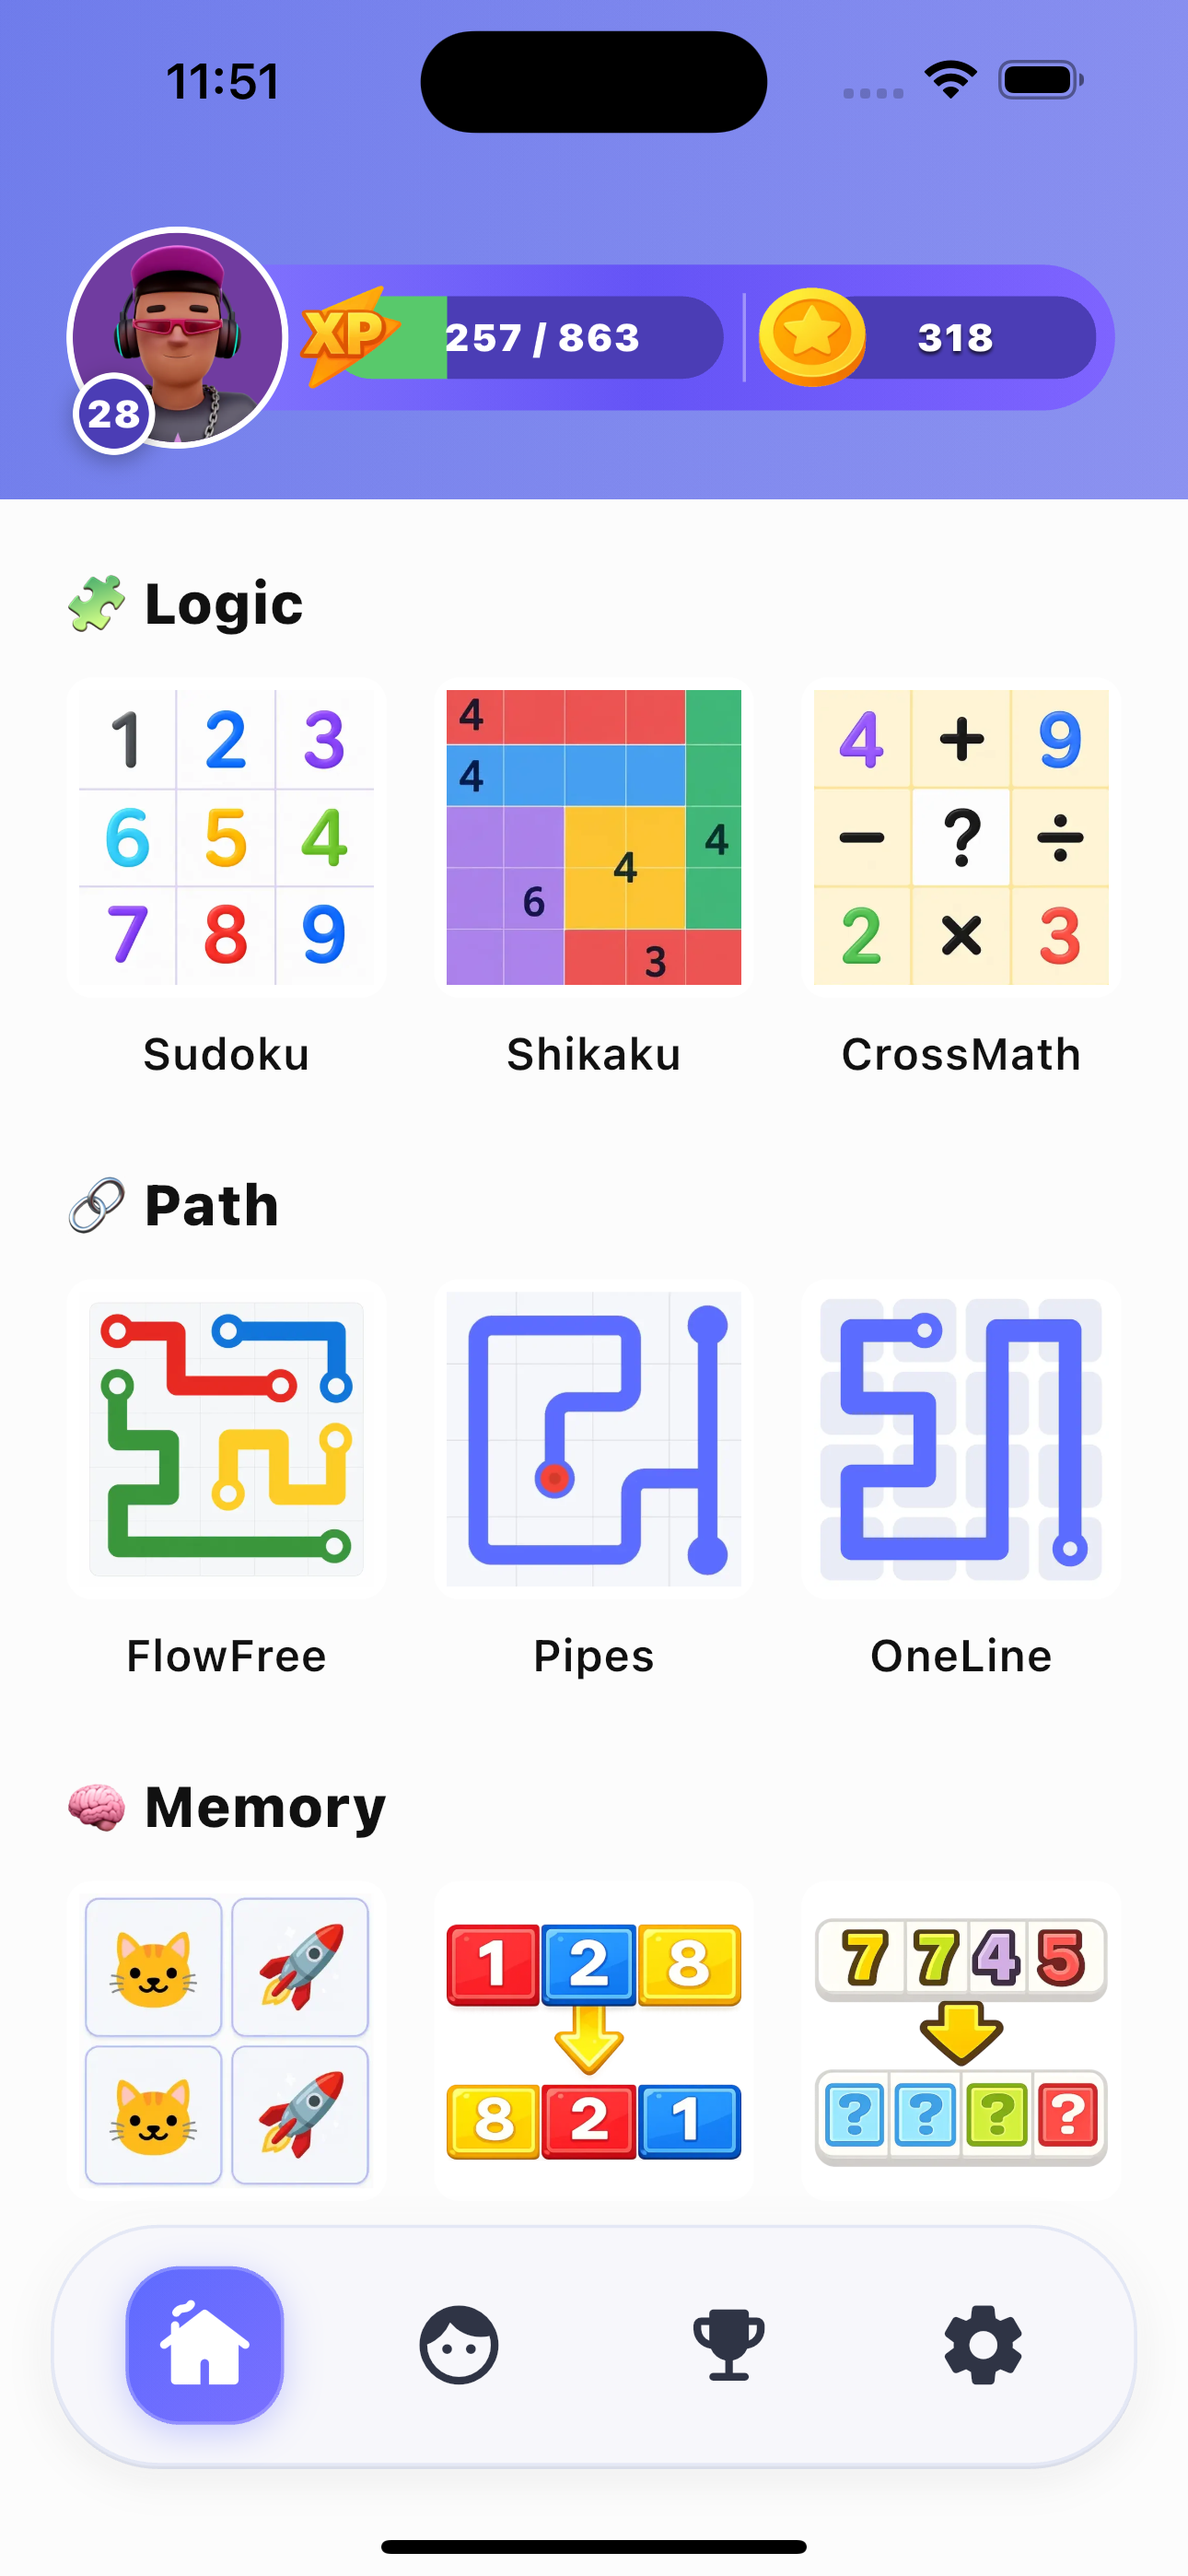
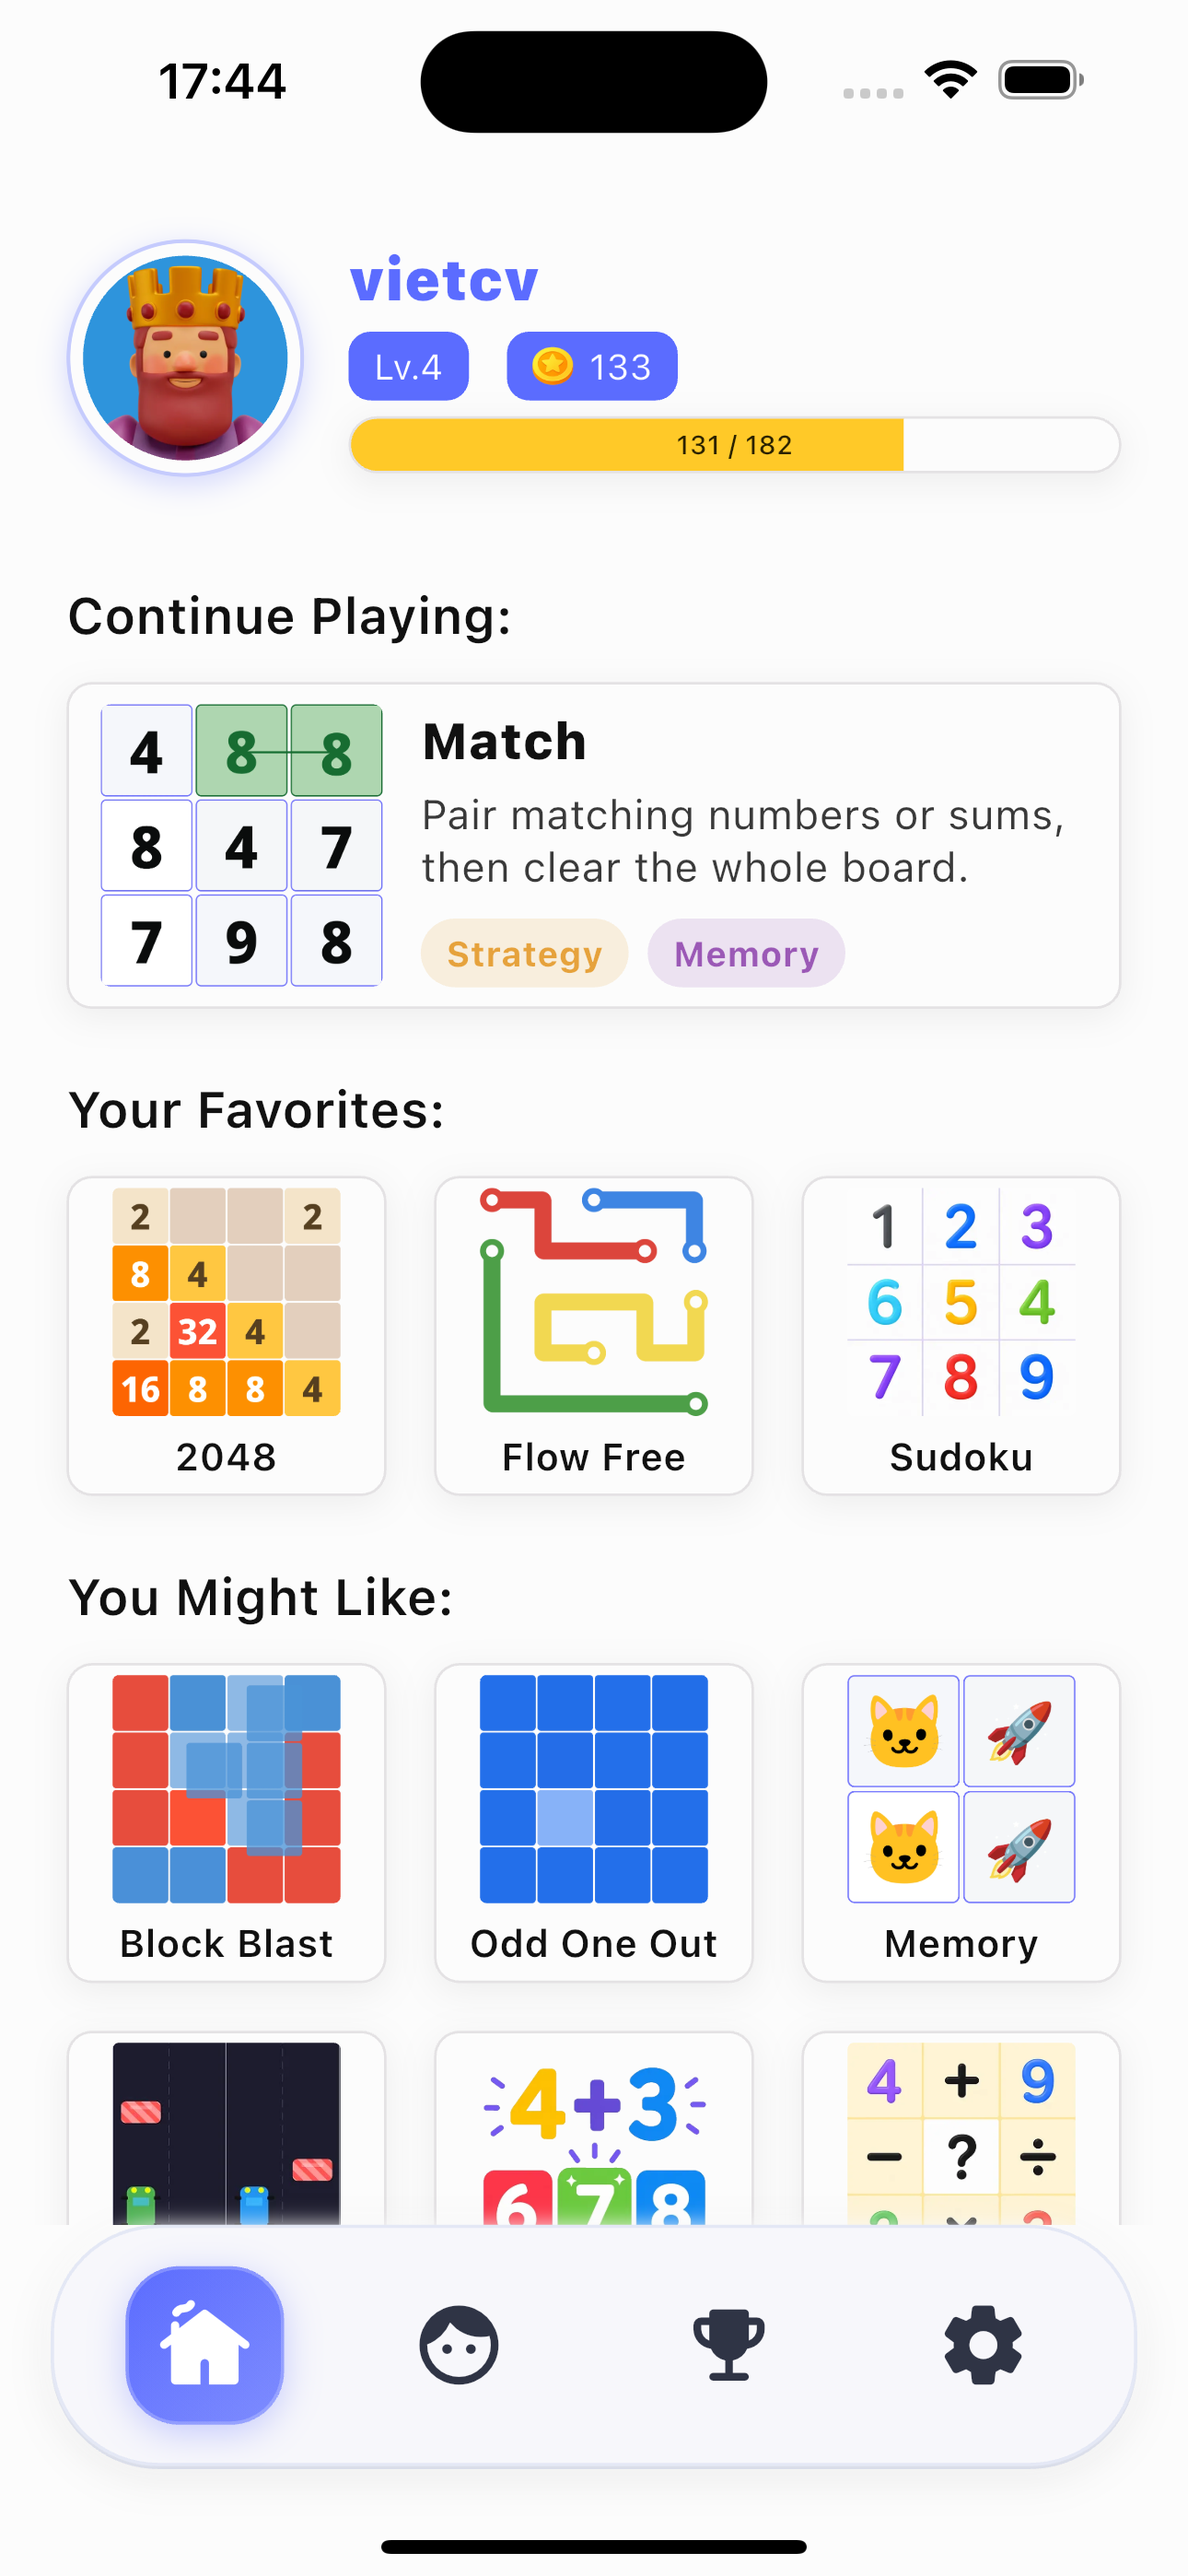
fix bugs html

diff --git a/index.html b/index.html
@@ -14,9 +14,11 @@
       --ink:#ffffff;
       --muted:rgba(255,255,255,.74);
       --muted2:rgba(255,255,255,.56);
-      --deep:#24125f;
-      --violet:#6C63FF;
-      --violet2:#8B5CF6;
+      --deep:#121A5F;
+      --violet:#5B6CFF;
+      --violet-rgb:91,108,255;
+      --violet2:#5C6CF6;
+      --violet2-rgb:92,108,246;
       --gold:#FFD471;
       --gold2:#FFE9A6;
       --surface:rgba(255,255,255,.08);
@@ -33,9 +35,9 @@
       color:var(--ink);
       background:
         radial-gradient(circle at 10% 0%, rgba(255,212,113,.18), transparent 26%),
-        radial-gradient(circle at 90% 10%, rgba(139,92,246,.35), transparent 30%),
-        radial-gradient(circle at 55% 90%, rgba(108,99,255,.28), transparent 34%),
-        linear-gradient(135deg,#211052 0%,#34208a 42%,#5b4df3 100%);
+        radial-gradient(circle at 90% 10%, rgba(var(--violet2-rgb),.35), transparent 30%),
+        radial-gradient(circle at 55% 90%, rgba(var(--violet-rgb),.28), transparent 34%),
+        linear-gradient(135deg,#101752 0%,#202B8A 42%,var(--violet) 100%);
       min-height:100vh;
       overflow-x:hidden;
     }
@@ -176,7 +178,7 @@
 
     .btn:hover{transform:translateY(-2px)}
     .btn-primary{
-      color:#24125f;
+      color:var(--deep);
       background:linear-gradient(180deg,var(--gold2),var(--gold));
       box-shadow:0 16px 36px rgba(255,212,113,.28);
     }
@@ -240,7 +242,7 @@
       padding:10px;
       background:linear-gradient(145deg, rgba(255,255,255,.22), rgba(255,255,255,.08));
       border:1px solid rgba(255,255,255,.16);
-      box-shadow:var(--shadow), 0 0 100px rgba(108,99,255,.30);
+      box-shadow:var(--shadow), 0 0 100px rgba(var(--violet-rgb),.30);
     }
 
     .hero-cover img{
@@ -606,9 +608,15 @@
       padding:0 22px;
       border-radius:16px;
       background:#fff;
-      color:#24125f;
+      color:var(--deep);
       font-weight:900;
       white-space:nowrap;
+    }
+
+    .quote-actions{
+      display:flex;
+      gap:12px;
+      flex-wrap:wrap;
     }
 
     footer{
@@ -704,8 +712,11 @@
         </p>
 
         <div class="cta">
-          <a class="btn btn-primary" href="https://play.google.com/store/apps/details?id=com.vietcv.puzzleverse" target="_blank" rel="noopener noreferrer">
+          <a class="btn btn-primary" data-play-store-link href="https://play.google.com/store/apps/details?id=com.vietcv.puzzleverse" target="_blank" rel="noopener noreferrer">
             Get it on Android
+          </a>
+          <a class="btn btn-ghost" data-app-store-link href="https://apps.apple.com/app/id6778448927" target="_blank" rel="noopener noreferrer">
+            Download on iOS
           </a>
           <a class="btn btn-ghost" href="#games">Explore games</a>
         </div>
@@ -1000,9 +1011,14 @@
           <div class="section-kicker">Start playing</div>
           <h2>Challenge your mind in a more beautiful way.</h2>
         </div>
-        <a class="store-pill" href="https://play.google.com/store/apps/details?id=com.vietcv.puzzleVerse" target="_blank" rel="noopener noreferrer">
-          Download PuzzleVerse
-        </a>
+        <div class="quote-actions">
+          <a class="store-pill" data-play-store-link href="https://play.google.com/store/apps/details?id=com.vietcv.puzzleverse" target="_blank" rel="noopener noreferrer">
+            Get it on Android
+          </a>
+          <a class="store-pill" data-app-store-link href="https://apps.apple.com/app/id6778448927" target="_blank" rel="noopener noreferrer">
+            Download on iOS
+          </a>
+        </div>
       </div>
     </section>
 
@@ -1015,5 +1031,18 @@
       </div>
     </footer>
   </main>
+
+  <script>
+    // Single source of truth for the store links — update these to change every CTA on the page.
+    const PLAY_STORE_PACKAGE_ID = "com.vietcv.puzzleverse";
+    const APP_STORE_URL = "https://apps.apple.com/app/id6778448927";
+
+    document.querySelectorAll("[data-play-store-link]").forEach((link) => {
+      link.href = `https://play.google.com/store/apps/details?id=${PLAY_STORE_PACKAGE_ID}`;
+    });
+    document.querySelectorAll("[data-app-store-link]").forEach((link) => {
+      link.href = APP_STORE_URL;
+    });
+  </script>
 </body>
 </html>

diff --git a/privacy_policy.html b/privacy_policy.html
@@ -12,8 +12,11 @@
       --ink: #ffffff;
       --muted: rgba(255,255,255,.72);
       --muted2: rgba(255,255,255,.55);
-      --deep: #24125f;
-      --violet: #6C63FF;
+      --deep: #121A5F;
+      --violet: #5B6CFF;
+      --violet-rgb: 91,108,255;
+      --violet2: #5C6CF6;
+      --violet2-rgb: 92,108,246;
       --gold: #FFD471;
       --gold2: #FFE9A6;
       --surface: rgba(255,255,255,.08);
@@ -30,9 +33,9 @@
       font-family: Manrope, Arial, Helvetica, sans-serif;
       background:
         radial-gradient(circle at 10% 0%, rgba(255,212,113,.18), transparent 26%),
-        radial-gradient(circle at 90% 10%, rgba(139,92,246,.35), transparent 30%),
-        radial-gradient(circle at 55% 90%, rgba(108,99,255,.28), transparent 34%),
-        linear-gradient(135deg,#211052 0%,#34208a 42%,#5b4df3 100%);
+        radial-gradient(circle at 90% 10%, rgba(var(--violet2-rgb),.35), transparent 30%),
+        radial-gradient(circle at 55% 90%, rgba(var(--violet-rgb),.28), transparent 34%),
+        linear-gradient(135deg,#101752 0%,#202B8A 42%,var(--violet) 100%);
       color: var(--ink);
       line-height: 1.65;
     }

diff --git a/support.html b/support.html
@@ -12,6 +12,10 @@
             --ink:#ffffff;
             --muted:rgba(255,255,255,.72);
             --muted2:rgba(255,255,255,.55);
+            --violet:#5B6CFF;
+            --violet-rgb:91,108,255;
+            --violet2:#5C6CF6;
+            --violet2-rgb:92,108,246;
             --gold:#FFD471;
             --gold2:#FFE9A6;
             --line:rgba(255,255,255,.13);
@@ -28,9 +32,9 @@
             color:var(--ink);
             background:
                 radial-gradient(circle at 10% 0%, rgba(255,212,113,.18), transparent 26%),
-                radial-gradient(circle at 90% 10%, rgba(139,92,246,.35), transparent 30%),
-                radial-gradient(circle at 55% 90%, rgba(108,99,255,.28), transparent 34%),
-                linear-gradient(135deg,#211052 0%,#34208a 42%,#5b4df3 100%);
+                radial-gradient(circle at 90% 10%, rgba(var(--violet2-rgb),.35), transparent 30%),
+                radial-gradient(circle at 55% 90%, rgba(var(--violet-rgb),.28), transparent 34%),
+                linear-gradient(135deg,#101752 0%,#202B8A 42%,var(--violet) 100%);
             line-height: 1.6;
         }
 

diff --git a/verify-email.html b/verify-email.html
@@ -11,7 +11,11 @@
     :root {
       --ink: #ffffff;
       --muted: rgba(255,255,255,.72);
-      --deep: #24125f;
+      --deep: #121A5F;
+      --violet: #5B6CFF;
+      --violet-rgb: 91,108,255;
+      --violet2: #5C6CF6;
+      --violet2-rgb: 92,108,246;
       --gold: #FFD471;
       --gold2: #FFE9A6;
       --line: rgba(255,255,255,.13);
@@ -29,9 +33,9 @@
       color: var(--ink);
       background:
         radial-gradient(circle at 10% 0%, rgba(255,212,113,.18), transparent 26%),
-        radial-gradient(circle at 90% 10%, rgba(139,92,246,.35), transparent 30%),
-        radial-gradient(circle at 55% 90%, rgba(108,99,255,.28), transparent 34%),
-        linear-gradient(135deg,#211052 0%,#34208a 42%,#5b4df3 100%);
+        radial-gradient(circle at 90% 10%, rgba(var(--violet2-rgb),.35), transparent 30%),
+        radial-gradient(circle at 55% 90%, rgba(var(--violet-rgb),.28), transparent 34%),
+        linear-gradient(135deg,#101752 0%,#202B8A 42%,var(--violet) 100%);
       display: flex;
       align-items: center;
       justify-content: center;

diff --git a/terms_of_service.html b/terms_of_service.html
@@ -13,6 +13,10 @@
 --ink:#ffffff;
 --muted:rgba(255,255,255,.72);
 --muted2:rgba(255,255,255,.55);
+--violet:#5B6CFF;
+--violet-rgb:91,108,255;
+--violet2:#5C6CF6;
+--violet2-rgb:92,108,246;
 --gold:#FFD471;
 --gold2:#FFE9A6;
 --line:rgba(255,255,255,.13);
@@ -28,9 +32,9 @@ min-height:100vh;
 font-family:Manrope, Arial, Helvetica, sans-serif;
 background:
 radial-gradient(circle at 10% 0%, rgba(255,212,113,.18), transparent 26%),
-radial-gradient(circle at 90% 10%, rgba(139,92,246,.35), transparent 30%),
-radial-gradient(circle at 55% 90%, rgba(108,99,255,.28), transparent 34%),
-linear-gradient(135deg,#211052 0%,#34208a 42%,#5b4df3 100%);
+radial-gradient(circle at 90% 10%, rgba(var(--violet2-rgb),.35), transparent 30%),
+radial-gradient(circle at 55% 90%, rgba(var(--violet-rgb),.28), transparent 34%),
+linear-gradient(135deg,#101752 0%,#202B8A 42%,var(--violet) 100%);
 color:var(--ink);
 line-height:1.65;
 }
